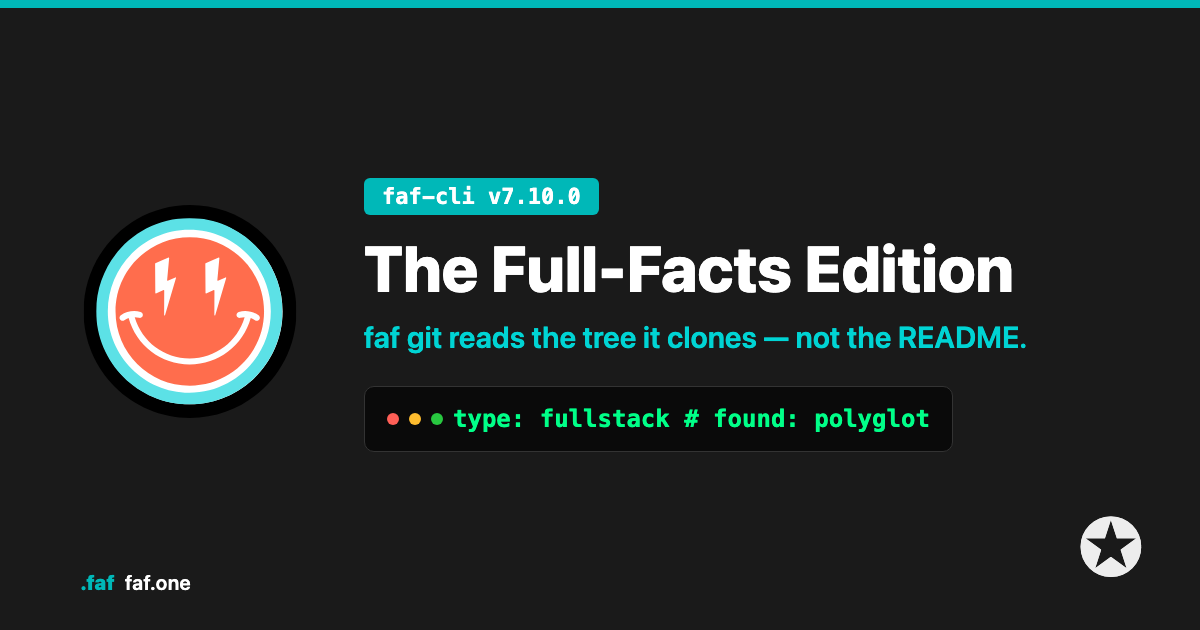
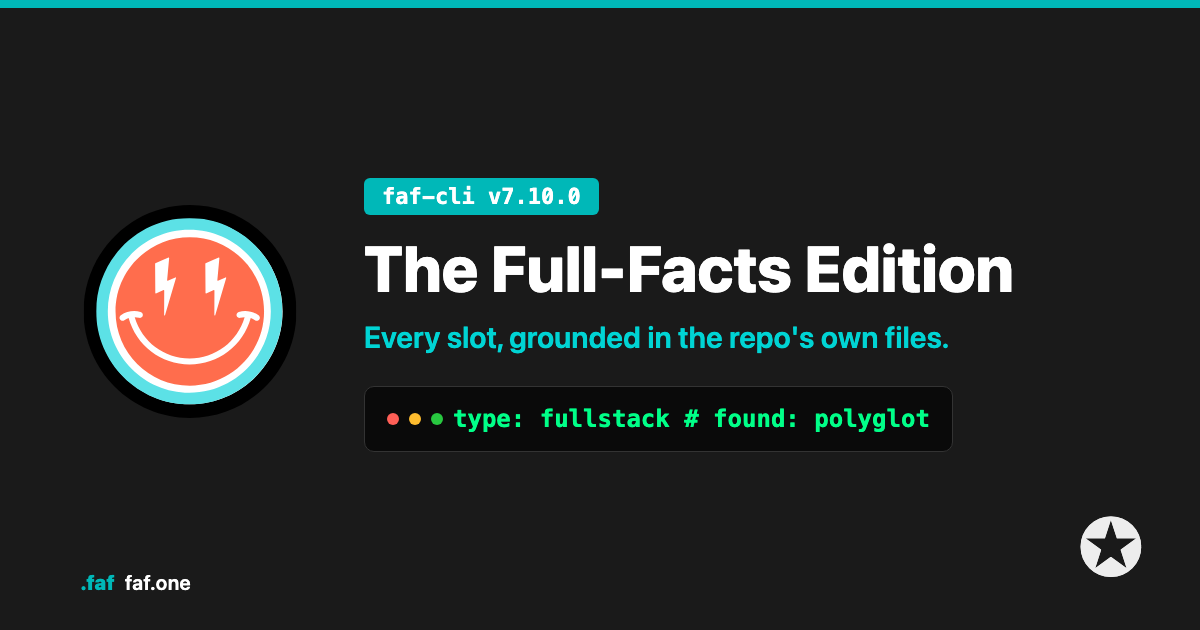
blog: Full-Facts Edition — reframe around repo-grounded facts
README varies (can be great, can be thin) — the point is faf git now
reinforces every slot with the repo's own files. Drop the 'not the README'
framing; README kept in a light supportive role (goal + 6 Ws).

- hero tagline: 'Every slot, grounded in the repo's own files.'
- TL;DR / In Plain English / meta / ticker / index excerpt all reframed

Changed region(s): [[0.3083, 0.5127, 0.8633, 0.573]]

diff --git a/src/routes/blog/full-facts-edition/+page.svelte b/src/routes/blog/full-facts-edition/+page.svelte
@@ -6,9 +6,9 @@
 
 	const shareText = `🏁 Just shipped: faf-cli v7.10.0 — The Full-Facts Edition
 
-faf git reads the tree it clones — not the README.
+faf git now grounds every slot in the repo's own files.
 
-Polyglot repo → fullstack + real languages, not library / JavaScript.
+Polyglot repo → fullstack + the real languages, not library / JavaScript.
 docker-compose services · Makefile targets · .env → real stack facts.
 
 bunx faf git <any-repo>
@@ -23,12 +23,12 @@ Comments · suggestions · shares welcome.`;
 	<title>The Full-Facts Edition - faf-cli v7.10.0 | FAF</title>
 	<meta
 		name="description"
-		content="faf git reads the tree it clones — docker-compose services, Makefile targets, sibling app dirs — instead of leaning on the README. A polyglot repo stops reporting library / JavaScript."
+		content="faf git grounds every slot in the repo's own files — docker-compose services, Makefile targets, the sibling app dirs where the real stack lives. A polyglot repo stops reporting library / JavaScript."
 	/>
 	<meta property="og:title" content="The Full-Facts Edition - faf-cli v7.10.0" />
 	<meta
 		property="og:description"
-		content="faf git reads the tree it clones — not the README. A polyglot repo stops reporting library / JavaScript."
+		content="faf git grounds every slot in the repo's own files. A polyglot repo stops reporting library / JavaScript."
 	/>
 	<meta property="og:type" content="article" />
 	<meta property="og:url" content="https://faf.one/blog/full-facts-edition" />
@@ -40,7 +40,7 @@ Comments · suggestions · shares welcome.`;
 	<meta property="og:image:height" content="630" />
 	<meta
 		property="og:image:alt"
-		content="The Full-Facts Edition — faf-cli v7.10.0 · faf git reads the tree it clones"
+		content="The Full-Facts Edition — faf-cli v7.10.0 · every slot grounded in the actual repo"
 	/>
 	<meta name="twitter:card" content="summary_large_image" />
 	<meta name="twitter:site" content="@fafformat" />
@@ -48,12 +48,12 @@ Comments · suggestions · shares welcome.`;
 	<meta name="twitter:title" content="The Full-Facts Edition - faf-cli v7.10.0" />
 	<meta
 		name="twitter:description"
-		content="faf git reads the tree it clones — not the README. A polyglot repo stops reporting library / JavaScript."
+		content="faf git grounds every slot in the repo's own files. A polyglot repo stops reporting library / JavaScript."
 	/>
 	<meta name="twitter:image" content="https://faf.one/blog/full-facts-edition-hero.png" />
 	<meta
 		name="twitter:image:alt"
-		content="The Full-Facts Edition — faf-cli v7.10.0 · faf git reads the tree it clones"
+		content="The Full-Facts Edition — faf-cli v7.10.0 · every slot grounded in the actual repo"
 	/>
 </svelte:head>
 
@@ -64,7 +64,7 @@ Comments · suggestions · shares welcome.`;
 		</div>
 		<h1>The Full-Facts Edition</h1>
 		<p class="version-tag">faf-cli v7.10.0 · faf v7.10.0</p>
-		<p class="subtitle">faf git reads the tree it clones — not the README.</p>
+		<p class="subtitle">Every slot, grounded in the repo's own files.</p>
 		<div class="meta">
 			<time datetime="2026-09-02">September 2, 2026</time>
 			<span class="separator">•</span>
@@ -75,7 +75,7 @@ Comments · suggestions · shares welcome.`;
 	<div class="hero-image">
 		<img
 			src="/blog/full-facts-edition-hero.png"
-			alt="The Full-Facts Edition — faf-cli v7.10.0 · faf git reads the tree it clones"
+			alt="The Full-Facts Edition — faf-cli v7.10.0 · every slot grounded in the actual repo"
 			width="1200"
 			height="630"
 			loading="eager"
@@ -86,18 +86,19 @@ Comments · suggestions · shares welcome.`;
 	<article class="post-content">
 		<section class="intro">
 			<p class="lead">
-				<strong>TL;DR:</strong> <code>faf git &lt;url&gt;</code> now reads the tree it clones —
-				<code>docker-compose</code> services, <code>Makefile</code> targets, sibling app dirs —
-				instead of leaning on the README. A polyglot repo (Django + React + Go, no npm workspace)
-				stops reporting <code>type: library</code> / <code>main_language: JavaScript</code>.
+				<strong>TL;DR:</strong> <code>faf git &lt;url&gt;</code> now grounds every slot in the
+				repo's own files — <code>docker-compose</code> services, <code>Makefile</code> targets, the
+				sibling app dirs where the real stack lives. A polyglot repo (Django + React + Go, no npm
+				workspace) stops reporting <code>type: library</code> /
+				<code>main_language: JavaScript</code>.
 			</p>
 			<div class="lead plain-english">
 				<p class="plain-label">In Plain English</p>
 				<p>
 					<strong>Old state.</strong> Point <code>faf git</code> at a repo whose real code lives
 					in folders — <code>backend/</code>, <code>frontend/</code>, <code>gateway/</code> — and
-					it only looked at the root. The root was a <code>package.json</code> with husky in it.
-					So: "it's a JavaScript library." On a Django + React + Go platform, every line was wrong.
+					it only read the root. The root was a <code>package.json</code> with husky in it. So:
+					"it's a JavaScript library." On a Django + React + Go platform, every line was wrong.
 				</p>
 				<p>
 					<strong>Fix.</strong> It walks one level in. Sibling dirs, each with their own manifest,
@@ -107,8 +108,8 @@ Comments · suggestions · shares welcome.`;
 					<code>Makefile</code> for the real test command.
 				</p>
 				<p>
-					<strong>New state.</strong> Point it at a real repo and the <code>.faf</code> is facts,
-					not a guess.
+					<strong>New state.</strong> Point it at a real repo and every slot is backed by a file
+					you can open — a checkable fact, not a guess.
 				</p>
 			</div>
 			<div class="terminal-block">
@@ -174,13 +175,13 @@ Comments · suggestions · shares welcome.`;
 					<code>security.example</code>.
 				</li>
 				<li>
-					<strong>README, better</strong> — HTML comment blocks (asset notes, TODO markers) are
-					stripped before extraction; a row of roadmap links no longer lands in a slot.
+					<strong>Cleaner prose extraction</strong> — HTML comment blocks (asset notes, TODO
+					markers) and rows of nav links no longer leak into a slot.
 				</li>
 			</ul>
 			<p>
-				File-facts win over prose and over presence-only guesses. The README is still read — for
-				the parts a file can't tell you.
+				File-facts lead. The README still fills the goal and the 6 Ws — the human story a manifest
+				doesn't hold.
 			</p>
 		</section>
 

diff --git a/src/routes/+page.svelte b/src/routes/+page.svelte
@@ -54,7 +54,7 @@
 		<a href="/blog" class="ticker-label">Latest</a>
 		<div class="ticker-viewport">
 			<div class="ticker-track">
-				<a href="/blog/full-facts-edition" class="ticker-item"><b>faf-cli 7.10</b> The Full-Facts Edition — faf git reads the tree, not the README</a>
+				<a href="/blog/full-facts-edition" class="ticker-item"><b>faf-cli 7.10</b> The Full-Facts Edition — every slot grounded in the repo's own files</a>
 				<a href="/blog/mk4-truth-edition" class="ticker-item"><b>rust-faf-mcp 0.5.0</b> The Mk4 Truth Edition — one kernel, one number, no more drift</a>
 				<a href="/blog/slash-tokens-fixed-deal" class="ticker-item"><b>slash-tokens 1.6.5</b> The Fixed Deal Edition — Solo $20 mailbox, 10% waived</a>
 				<a href="/blog/no-fluff-edition" class="ticker-item"><b>grok-faf-mcp 1.10.0</b> The No-Fluff Edition — No fluff in a project.faf</a>
@@ -69,7 +69,7 @@
 				<a href="/blog/go-edition" class="ticker-item"><b>faf-cli 7.3</b> The Go Edition — go.mod alone ≠ backend</a>
 				<a href="/blog/memory-is-vast" class="ticker-item"><b>Memory is vast</b> .fafm — knowledge + voice · remember and forget</a>
 				<a href="/blog/compactable-memory" class="ticker-item"><b>claude-fafm-sdk 2.0</b> Compactable — epoch compact · no silent zombies</a>
-				<a href="/blog/full-facts-edition" class="ticker-item" aria-hidden="true" tabindex="-1"><b>faf-cli 7.10</b> The Full-Facts Edition — faf git reads the tree, not the README</a>
+				<a href="/blog/full-facts-edition" class="ticker-item" aria-hidden="true" tabindex="-1"><b>faf-cli 7.10</b> The Full-Facts Edition — every slot grounded in the repo's own files</a>
 				<a href="/blog/mk4-truth-edition" class="ticker-item" aria-hidden="true" tabindex="-1"><b>rust-faf-mcp 0.5.0</b> The Mk4 Truth Edition — one kernel, one number, no more drift</a>
 				<a href="/blog/slash-tokens-fixed-deal" class="ticker-item" aria-hidden="true" tabindex="-1"><b>slash-tokens 1.6.5</b> The Fixed Deal Edition — Solo $20 mailbox, 10% waived</a>
 				<a href="/blog/no-fluff-edition" class="ticker-item" aria-hidden="true" tabindex="-1"><b>grok-faf-mcp 1.10.0</b> The No-Fluff Edition — No fluff in a project.faf</a>

diff --git a/src/routes/blog/+page.svelte b/src/routes/blog/+page.svelte
@@ -37,7 +37,7 @@
 			date: 'September 2, 2026',
 			timestamp: '2026-09-02',
 			excerpt:
-				'faf git reads the tree it clones — docker-compose services, Makefile targets, sibling app dirs — instead of leaning on the README. A polyglot repo stops reporting library / JavaScript.',
+				'faf git grounds every slot in the repo\'s own files — docker-compose services, Makefile targets, the sibling app dirs where the real stack lives. A polyglot repo stops reporting library / JavaScript.',
 			emoji: '✪',
 			category: 'Release'
 		},
